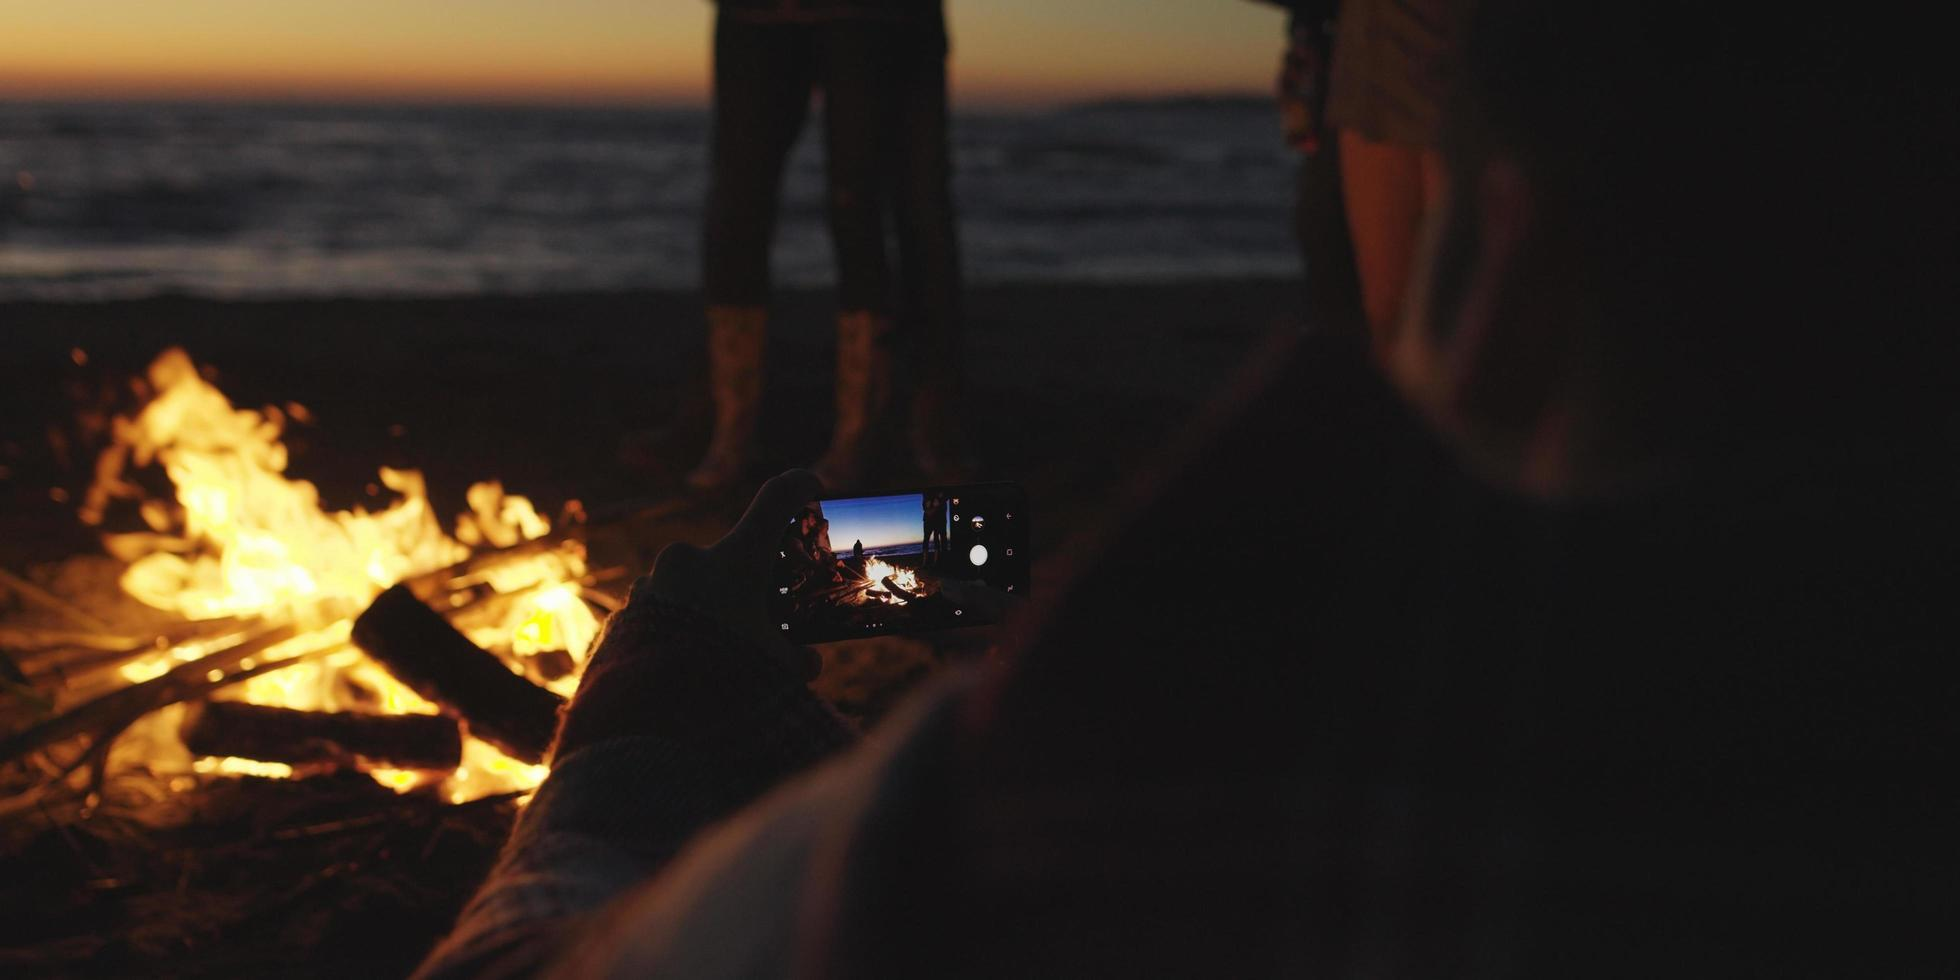
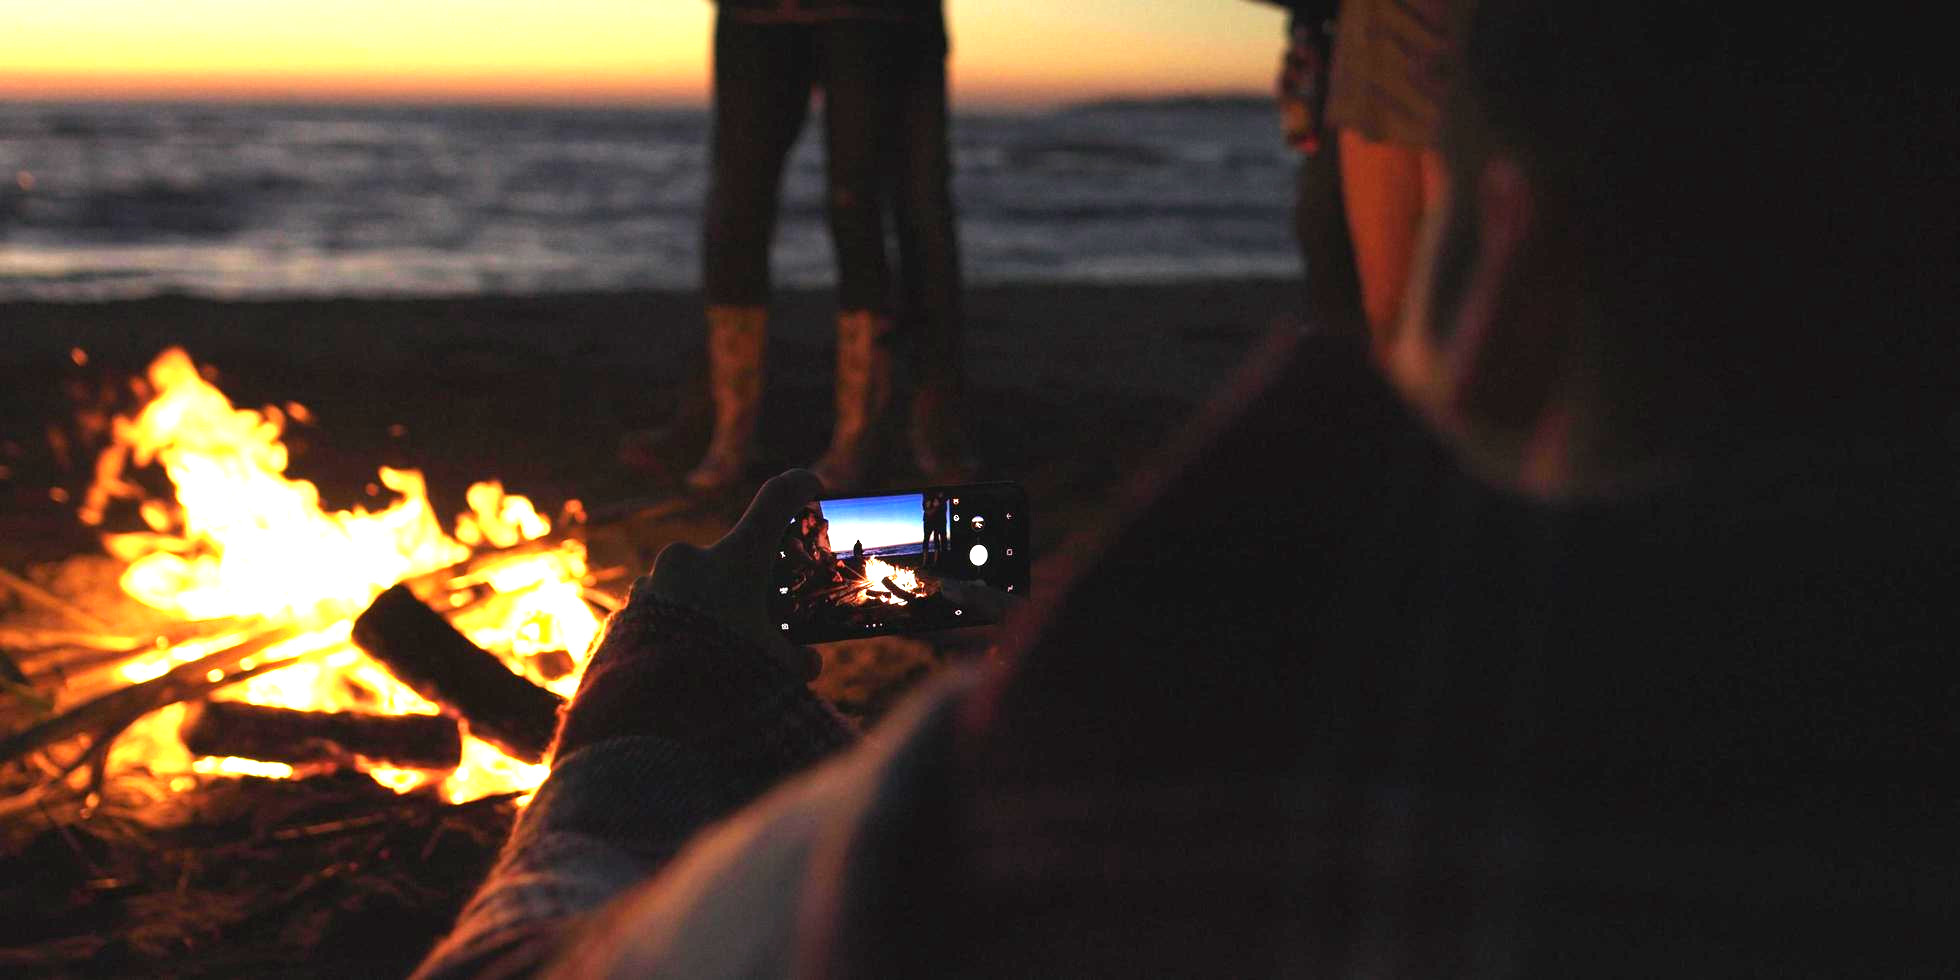
Clarear imagens

diff --git a/Davi/styles/destinos.css b/Davi/styles/destinos.css
@@ -35,7 +35,7 @@
     width: 100%;
     border-radius: 1rem;
     transition: all 250ms ease-in-out;
-    filter: brightness(0.4);
+    filter: brightness(0.6);
 }
 
 .destinos-container .card .text {
